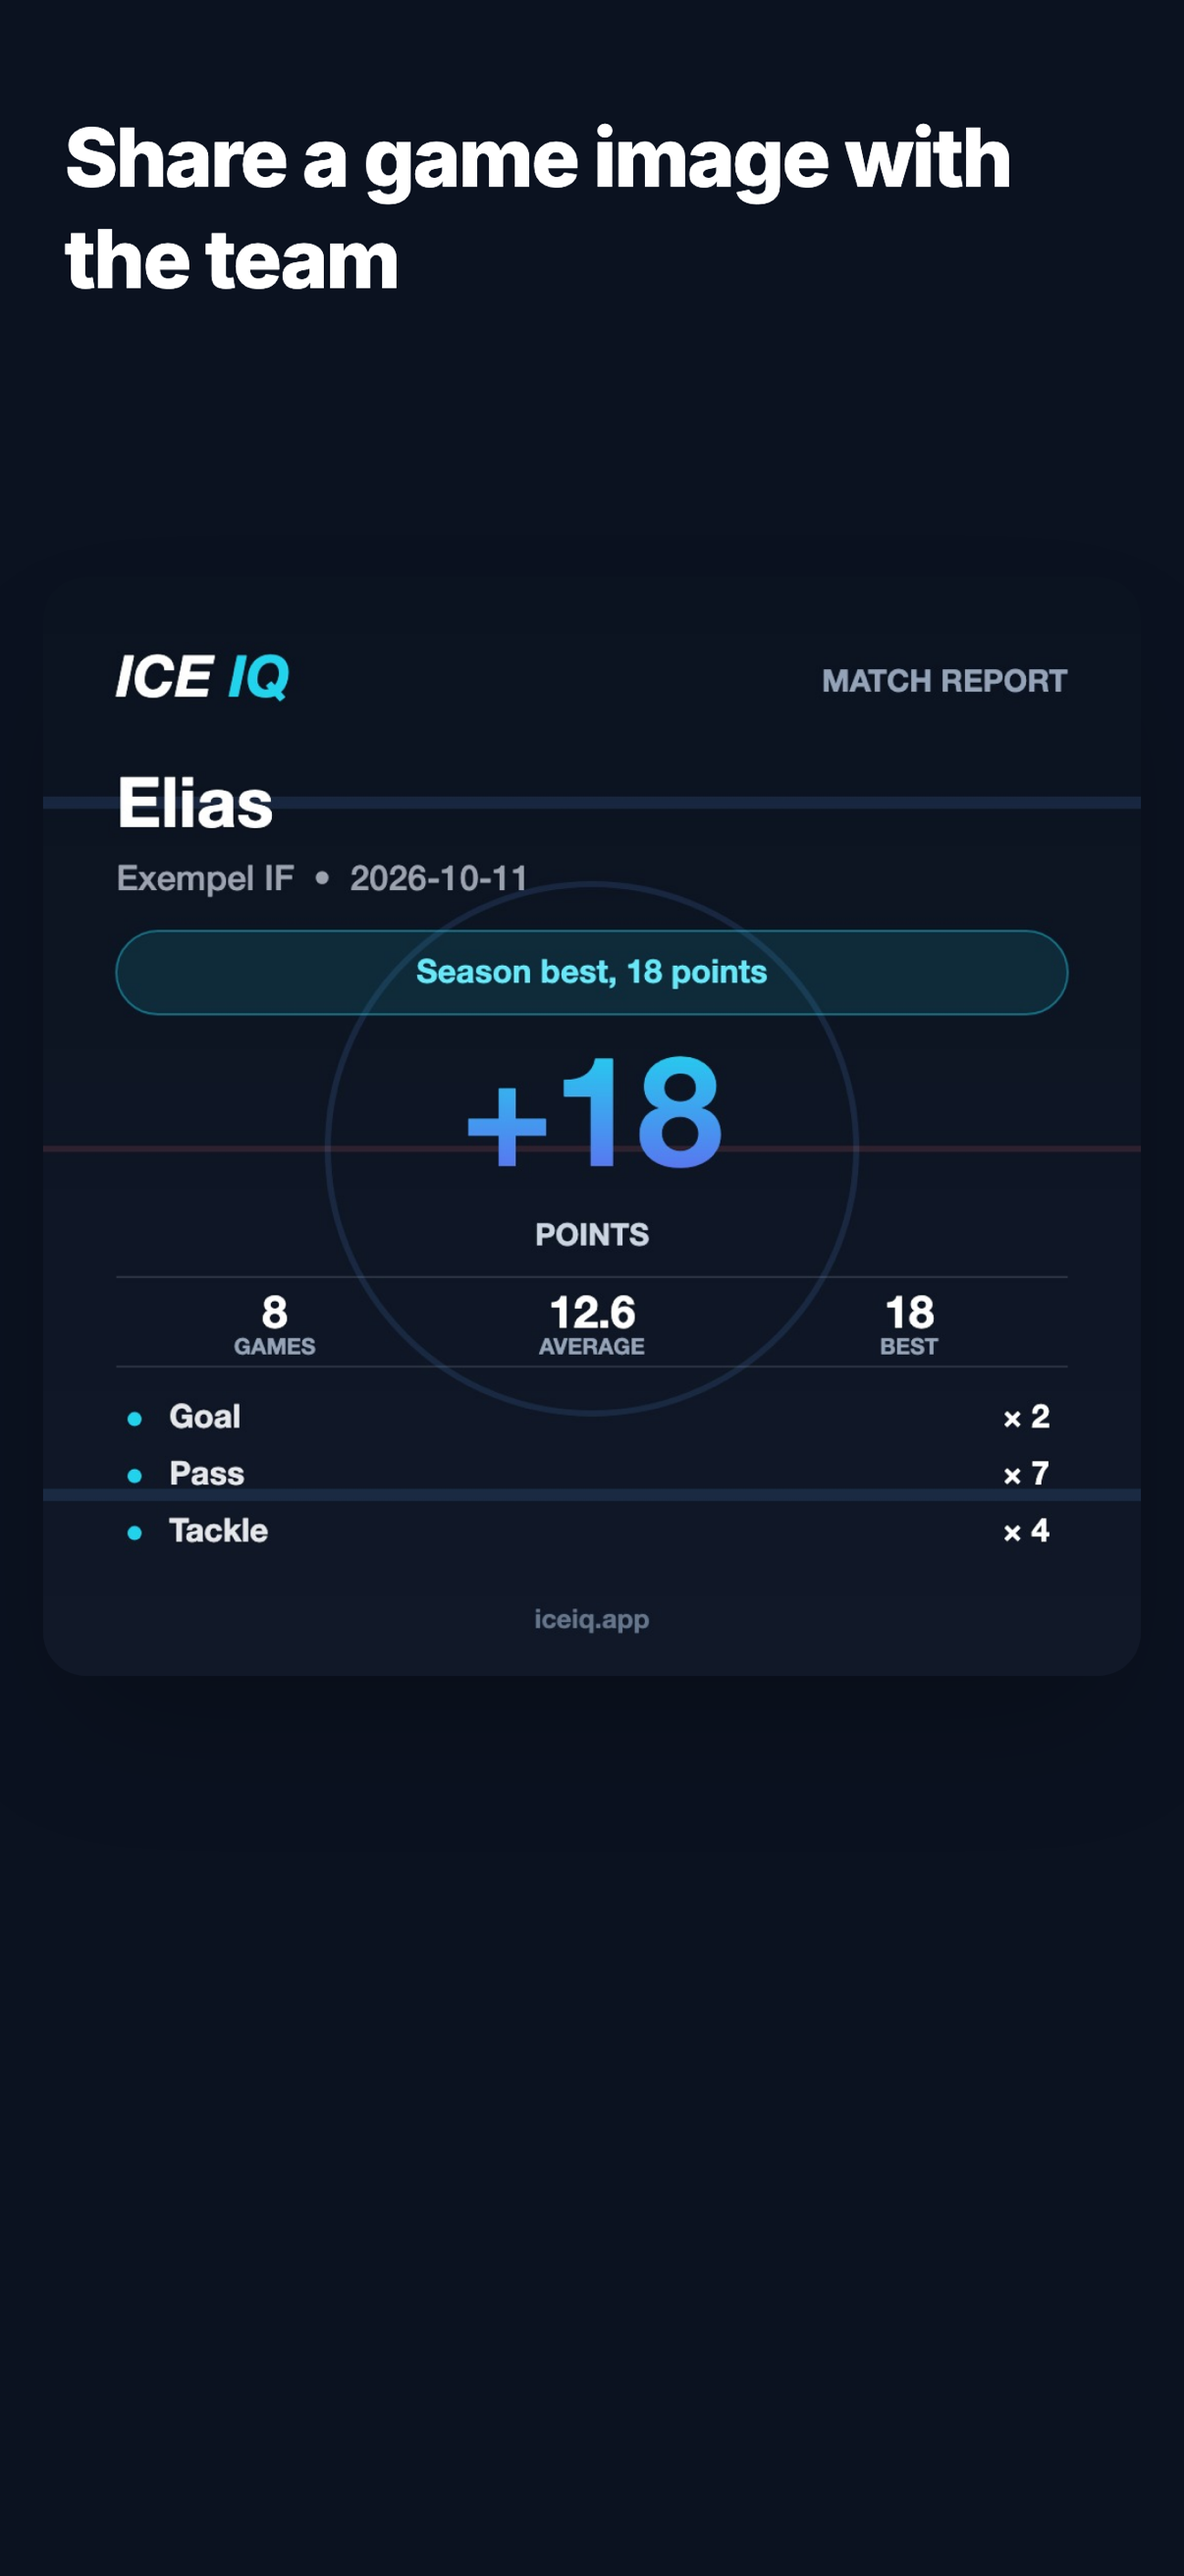
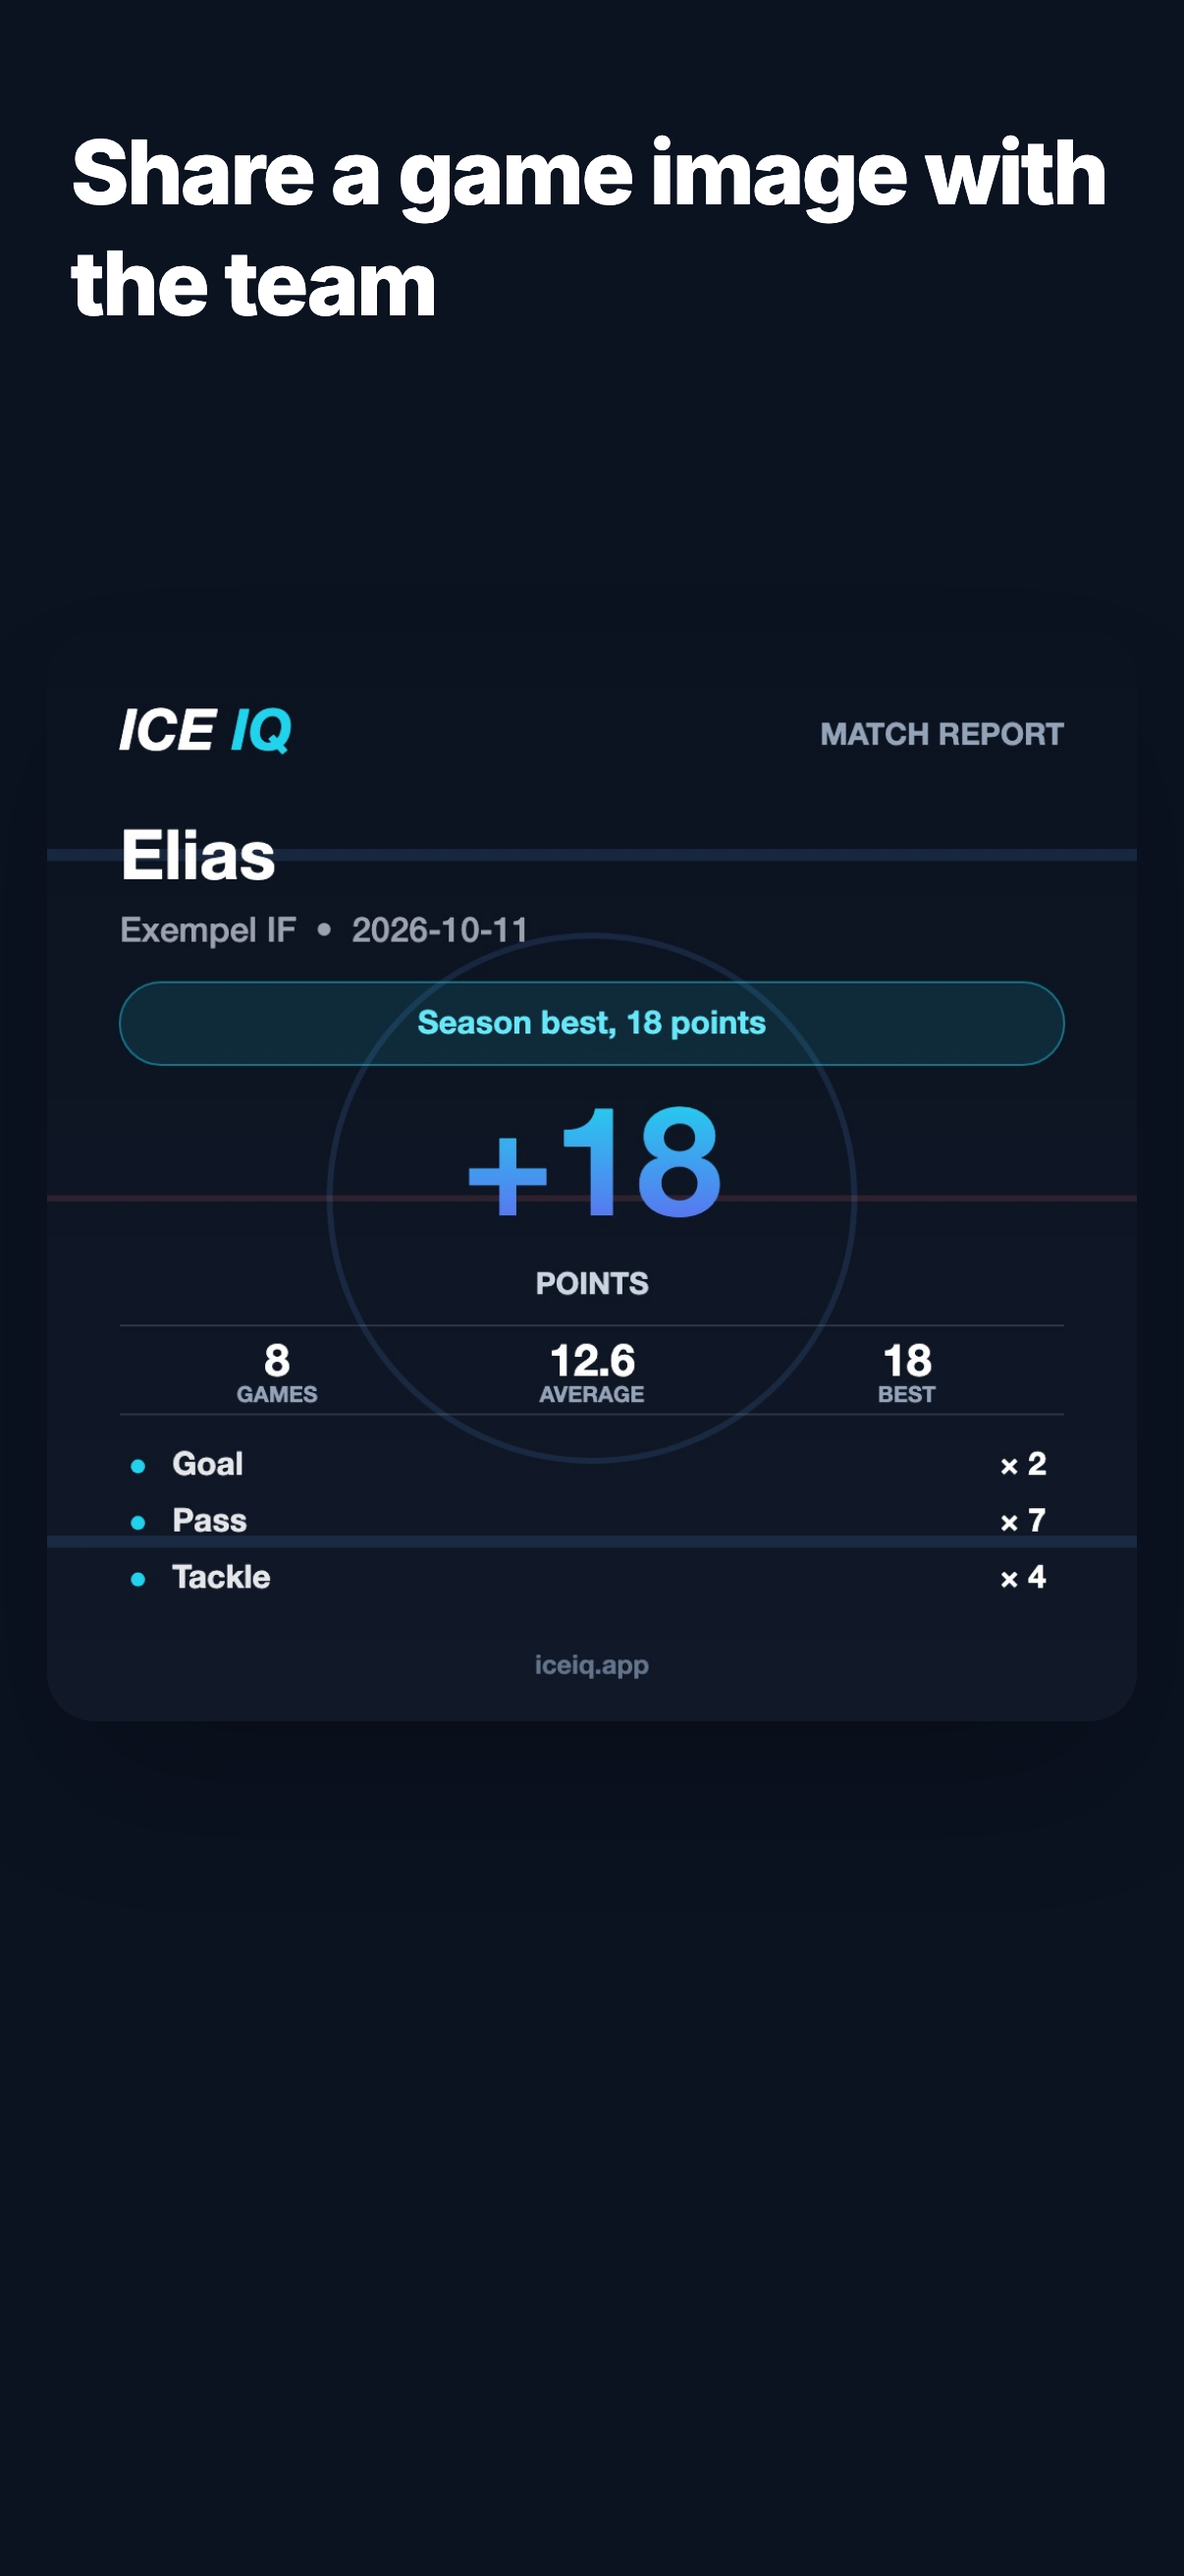
chore: screenshots rendered natively for the older iPhone slots, with a size guide

diff --git a/src/store-screens.tsx b/src/store-screens.tsx
@@ -19,6 +19,10 @@ import { renderMatchReport } from './utils/matchReport'
 const params = new URLSearchParams(location.search)
 const slide = Number(params.get('s') || '1')
 const lang = params.get('lang') === 'en' ? 'en' : 'sv'
+// Sidstorlek i CSS-pixlar (standard: iPhone 6,9" vid skala 3). Andra storlekar för
+// äldre iPhone-fack: ?w=414&h=736 (5,5", skala 3) eller ?w=375&h=667 (4,7", skala 2).
+const W = Number(params.get('w') || 440)
+const H = Number(params.get('h') || 956)
 try { localStorage.setItem('iceiq-language', lang) } catch { /* */ }
 
 const CAPTIONS: Record<string, string[]> = {
@@ -50,7 +54,7 @@ function Caption({ text }: { text: string }) {
   return (
     <div
       className="fixed top-0 left-0 right-0 z-[100] px-6 pt-10 pb-4"
-      style={{ background: 'linear-gradient(180deg, #0b1220 0%, #0b1220 70%, rgba(11,18,32,0) 100%)' }}
+      style={{ background: 'linear-gradient(180deg, #0b1220 0%, #0b1220 92%, rgba(11,18,32,0) 100%)' }}
     >
       <p className="text-[30px] leading-tight font-extrabold text-white tracking-tight">{text}</p>
     </div>
@@ -102,7 +106,7 @@ function Screen() {
   const caption = CAPTIONS[lang][slide - 1] || ''
   const tr = translateFor(lang)
   return (
-    <div className="bg-[#0b1220] min-h-screen" style={{ width: 440, height: 956, overflow: 'hidden' }}>
+    <div className="bg-[#0b1220] min-h-screen" style={{ width: W, height: H, overflow: 'hidden' }}>
       <Caption text={caption} />
       <div style={{ paddingTop: 150 }} className="px-4">
         {slide === 1 && <div style={{ transform: 'scale(0.92)', transformOrigin: 'top center', marginTop: -140 }}><CountedGrid /></div>}
@@ -176,7 +180,7 @@ if (params.get('frame') === '1') {
   document.body.style.margin = '0'
   document.body.style.background = '#0b1220'
   ReactDOM.createRoot(document.getElementById('root')!).render(
-    <iframe src={inner} width={440} height={956} style={{ border: 0, display: 'block' }} />
+    <iframe src={inner + '&w=' + W + '&h=' + H} width={W} height={H} style={{ border: 0, display: 'block' }} />
   )
 } else {
 ReactDOM.createRoot(document.getElementById('root')!).render(

diff --git a/marketing/app-store-screenshots/README.md b/marketing/app-store-screenshots/README.md
@@ -1,0 +1,15 @@
+# App Store-skärmdumpar
+
+Sex bilder per språk (`sv`, `en`), samma innehåll i flera storlekar. Apple kräver bara **en** storleksuppsättning (den största, iPhone 6,9") och skalar ned resten. Fylls övriga fack i behöver varje fack sin exakta storlek.
+
+| App Store Connect-fack | Storlek | Mapp |
+|---|---|---|
+| iPhone with Dynamic Island (large display), 6,9" | 1320 × 2868 | `sv/` och `en/` (denna mapp) |
+| iPhone with Dynamic Island (large display), 6,7" | 1290 × 2796 | `sizes/1290x2796/` |
+| iPhone with Dynamic Island (medium display), 6,3" | 1206 × 2622 | `sizes/1206x2622/` |
+| iPhone with Dynamic Island (medium display), 6,1" | 1179 × 2556 | `sizes/1179x2556/` |
+| iPhone with Home Button (large display), 5,5" | 1242 × 2208 | `sizes/1242x2208/` |
+| iPhone with Home Button (medium display), 4,7" | 750 × 1334 | `sizes/750x1334/` |
+| 6,5" (äldre Dynamic Island/notch) | 1284 × 2778 / 1242 × 2688 | `sizes/1284x2778/`, `sizes/1242x2688/` |
+
+Alla bilder är utan genomskinlighet. Gör om dem med verktyget `store-screens.html` (se `docs/app-store-listing.md`); storleken styrs med `?w=<bredd>&h=<höjd>` i CSS-pixlar och Chromes `--force-device-scale-factor` (3 för de flesta, 2 för 750 × 1334).
